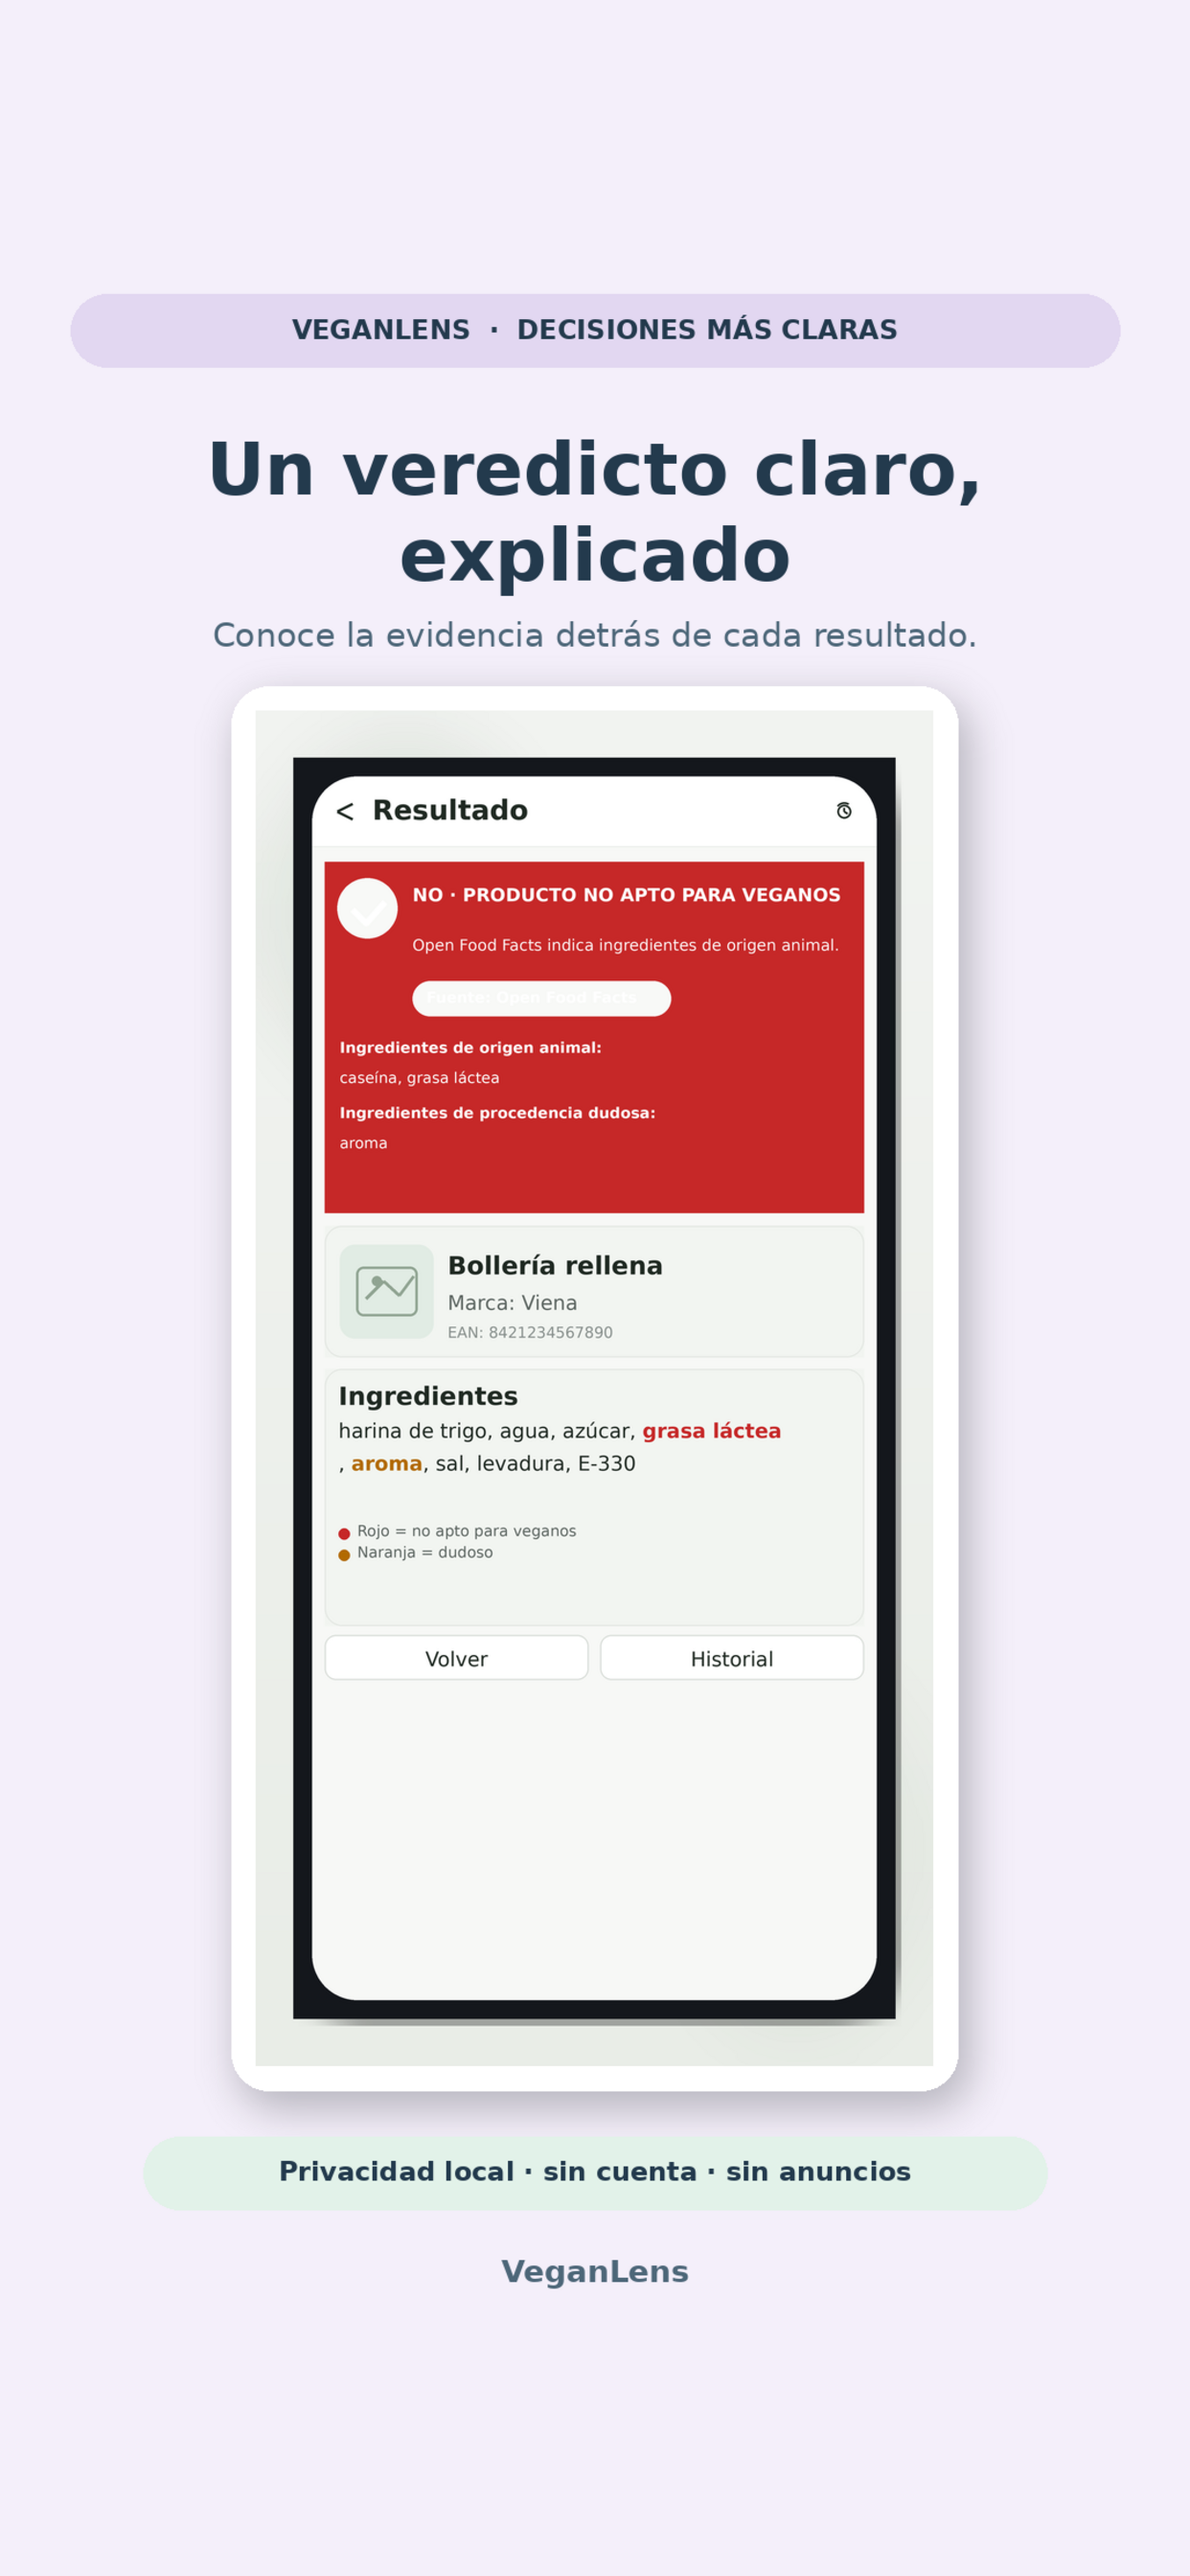
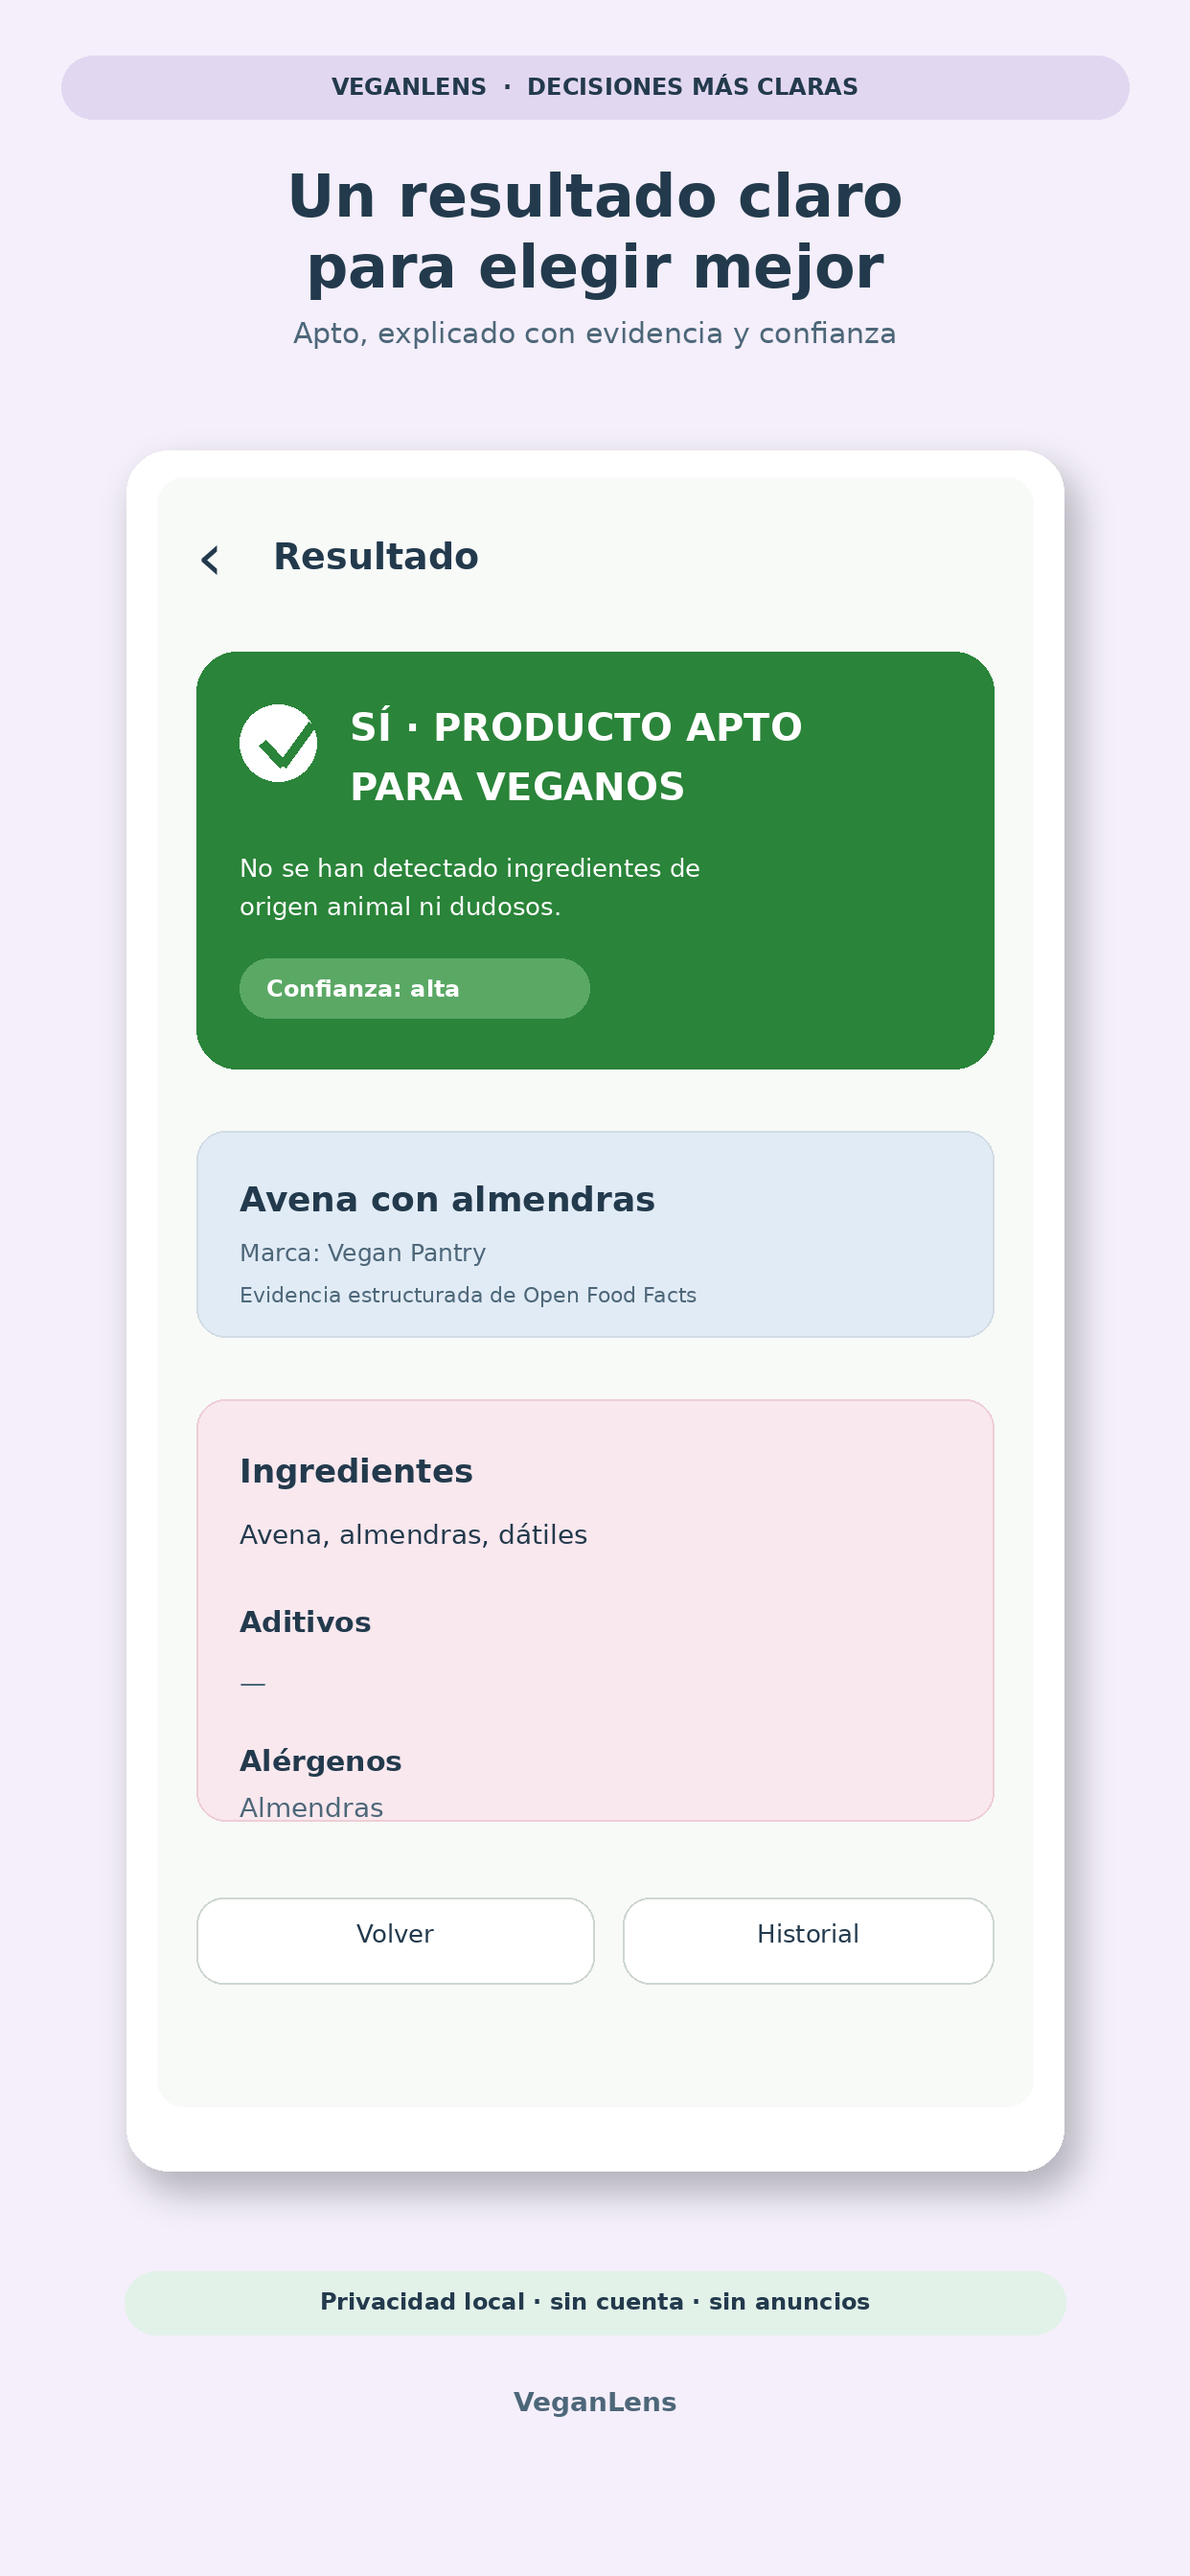
Add complete positive-result store screenshot

Changed region(s): [[0.1224, 0.0312, 0.9179, 0.9375], [0.5813, 0.625, 0.6425, 0.6562], [0.306, 0.0312, 0.3366, 0.0625]]

diff --git a/CHANGELOG.es.md b/CHANGELOG.es.md
@@ -10,6 +10,8 @@ versión para que App Store Connect pueda ofrecer notas en los dos idiomas.
 
 ## [Sin publicar]
 
+- El conjunto promocional incluye ahora una pantalla completa de resultado apto, con veredicto, confianza, evidencia, ingredientes y alérgenos.
+
 - Las capturas de tienda de iOS usan ahora las dimensiones solicitadas de 1242×2688 px y el arte del escáner utiliza el nombre VeganLens.
 
 ### Cambiado

diff --git a/CHANGELOG.md b/CHANGELOG.md
@@ -8,6 +8,8 @@ version so that App Store Connect can provide notes in both languages.
 
 ## [Unreleased]
 
+- The promotional set now includes a complete positive-result screen with verdict, confidence, evidence, ingredients, and allergens.
+
 - iOS store screenshots now use the requested 1242×2688 px dimensions, and the scanner artwork uses the VeganLens name.
 
 ### Changed
